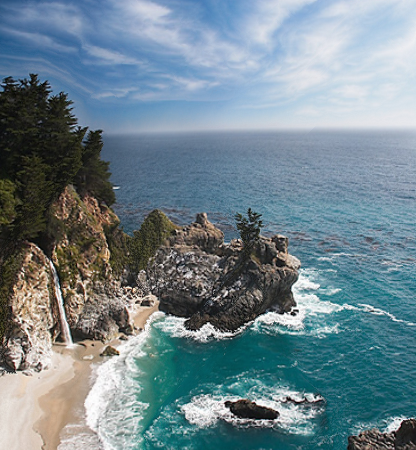
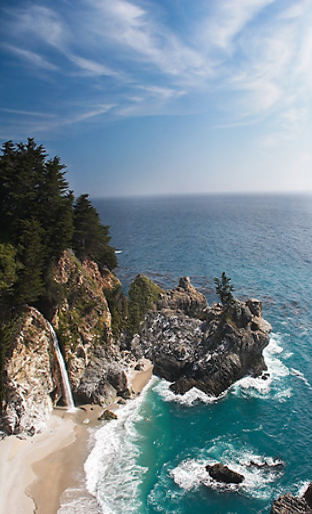
Add forward energy and more images

diff --git a/scaling.cpp b/scaling.cpp
@@ -6,7 +6,6 @@
 
 #include "scaling.h"
 
-typedef int64_t cost_t;
 typedef int8_t mark_t;
 
 enum Direction {
@@ -14,37 +13,49 @@ enum Direction {
     Vertical
 };
 
-std::vector<int> find_seam(const QImage &image, Direction direction, cost_t *dp_space, mark_t *mark_space) {
+std::vector<int> find_seam(const QImage &image, Direction direction, int *gray_map, int *m_space, int *dp_space, mark_t *mark_space) {
     int w = image.width(), h = image.height();
     std::memset(mark_space, 0, w * h * sizeof(mark_t));
-    auto color_distance = [](const QRgb &color_a, const QRgb &color_b) -> cost_t {
-        int r = qRed(color_a); r -= qRed(color_b); if (r < 0) r = -r;
-        int g = qGreen(color_a); g -= qGreen(color_b); if (g < 0) g = -g;
-        int b = qBlue(color_a); b -= qBlue(color_b); if (b < 0) b = -b;
-        return r + g + b;
-    };
+
+    // Gray map
 #pragma omp parallel for
     for (int y = 0; y < h; ++ y) {
         int index = y * w;
         for (int x = 0; x < w; ++ x, ++ index) {
-            dp_space[index] = 0;
-            auto pixel = image.pixel(x, y);
-            if (x > 0) {
-                dp_space[index] += color_distance(pixel, image.pixel(x - 1, y));
-            }
-            if (x + 1 < w) {
-                dp_space[index] += color_distance(pixel, image.pixel(x + 1, y));
-            }
-            if (y > 0) {
-                dp_space[index] += color_distance(pixel, image.pixel(x, y - 1));
-            }
-            if (y + 1 < h) {
-                dp_space[index] += color_distance(pixel, image.pixel(x, y + 1));
-            }
+            gray_map[index] = qGray(image.pixel(x, y));
         }
     }
 
-    auto update = [](cost_t &value, cost_t new_value, mark_t &mark, mark_t new_mark) {
+    // Forward energy
+    auto abs = [](auto x) {
+        return x > 0 ? x : -x;
+    };
+    for (int x = 0; x < w; ++ x) {
+        dp_space[x] = m_space[x] = 0;
+    }
+    for (int y = 1; y < h; ++ y) {
+        int y_index = y * w;
+        int last_y_index = (y - 1) * w;
+#pragma omp parallel for
+        for (int x = 0; x < w; ++ x) {
+            int left = (x - 1 + w) % w, right = (x + 1) % w;
+            int m_U = m_space[last_y_index + x];
+            int m_L = m_space[last_y_index + left];
+            int m_R = m_space[last_y_index + right];
+            int c_U = abs(gray_map[y_index + right] - gray_map[y_index + left]);
+            int c_L = abs(gray_map[last_y_index + x] - gray_map[y_index + left]) + c_U;
+            int c_R = abs(gray_map[last_y_index + x] - gray_map[y_index + right]) + c_U;
+            m_U += c_U, m_L += c_L, m_R += c_R;
+            int m = std::min(m_U, std::min(m_L, m_R));
+            if (m == m_U) dp_space[y_index + x] = c_U;
+            if (m == m_L) dp_space[y_index + x] = c_L;
+            if (m == m_R) dp_space[y_index + x] = c_R;
+            m_space[y_index + x] = m;
+        }
+    }
+
+    // DP
+    auto update = [](int &value, int new_value, mark_t &mark, mark_t new_mark) {
         if (new_value < value) {
             value = new_value;
             mark = new_mark;
@@ -56,7 +67,7 @@ std::vector<int> find_seam(const QImage &image, Direction direction, cost_t *dp_
 #pragma omp parallel for
             for (int y = 0; y < h; ++ y) {
                 int index = y * w + x;
-                cost_t dp = 0x3fffffff, energy = dp_space[index];
+                int dp = 0x3fffffff, energy = dp_space[index];
                 if (y > 0) {
                     update(dp, energy + dp_space[index - w - 1], mark_space[index], -1);
                 }
@@ -68,7 +79,7 @@ std::vector<int> find_seam(const QImage &image, Direction direction, cost_t *dp_
             }
         }
         int y_pos = 0, index = w - 1;
-        cost_t min_value = 0x3fffffff;
+        int min_value = 0x3fffffff;
         for (int y = 0; y < h; ++ y, index += w) {
             if (dp_space[index] < min_value) {
                 y_pos = y;
@@ -87,7 +98,7 @@ std::vector<int> find_seam(const QImage &image, Direction direction, cost_t *dp_
 #pragma omp parallel for
             for (int x = 0; x < w; ++ x) {
                 int index = y * w + x;
-                cost_t dp = 0x3fffffff, energy = dp_space[index];
+                int dp = 0x3fffffff, energy = dp_space[index];
                 if (x > 0) {
                     update(dp, energy + dp_space[index - w - 1], mark_space[index], -1);
                 }
@@ -99,7 +110,7 @@ std::vector<int> find_seam(const QImage &image, Direction direction, cost_t *dp_
             }
         }
         int x_pos = 0, index = (h - 1) * w;
-        cost_t min_value = 0x3fffffff;
+        int min_value = 0x3fffffff;
         for (int x = 0; x < w; ++ x, ++ index) {
             if (dp_space[index] < min_value) {
                 x_pos = x;
@@ -225,14 +236,16 @@ QImage scale(const QImage &image, const QSize &size) {
     QImage scaled = image;
     int max_w = std::max(image.width(), size.width());
     int max_h = std::max(image.height(), size.height());
-    auto *dp_space = static_cast<cost_t*>(std::malloc(max_w * max_h * sizeof(cost_t)));
+    auto *gray_map = static_cast<int*>(std::malloc(max_w * max_h * sizeof(int)));
+    auto *m_space = static_cast<int*>(std::malloc(max_w * max_h * sizeof(int)));
+    auto *dp_space = static_cast<int*>(std::malloc(max_w * max_h * sizeof(int)));
     auto *mark_space = static_cast<mark_t*>(std::malloc(max_w * max_h * sizeof(mark_t)));
     auto *deleted = static_cast<bool*>(std::malloc(max_w * max_h * sizeof(bool)));
 
     // Scale by height
     if (scaled.height() > size.height()) {
         for (int i = 0, length = scaled.height() - size.height(); i < length; ++ i) {
-            auto seam = find_seam(scaled, Horizontal, dp_space, mark_space);
+            auto seam = find_seam(scaled, Horizontal, gray_map, m_space, dp_space, mark_space);
             scaled = delete_seam(scaled, seam, Horizontal);
         }
     } else if (scaled.height() < size.height()) {
@@ -240,7 +253,7 @@ QImage scale(const QImage &image, const QSize &size) {
         int w = scaled.width(), h = scaled.height();
         std::memset(deleted, false, w * h * sizeof(bool));
         for (int i = 0, length = size.height() - scaled.height(); i < length; ++ i) {
-            auto seam = find_seam(removal, Horizontal, dp_space, mark_space);
+            auto seam = find_seam(removal, Horizontal, gray_map, m_space, dp_space, mark_space);
             removal = delete_seam(removal, seam, Horizontal);
             convert_mark_seam(w, h, seam, deleted, Horizontal);
             scaled = add_seam(scaled, seam, Horizontal);
@@ -250,7 +263,7 @@ QImage scale(const QImage &image, const QSize &size) {
     // Scale by width
     if (scaled.width() > size.width()) {
         for (int i = 0, length = scaled.width() - size.width(); i < length; ++ i) {
-            auto seam = find_seam(scaled, Vertical, dp_space, mark_space);
+            auto seam = find_seam(scaled, Vertical, gray_map, m_space, dp_space, mark_space);
             scaled = delete_seam(scaled, seam, Vertical);
         }
     } else if (scaled.width() < size.width()) {
@@ -258,7 +271,7 @@ QImage scale(const QImage &image, const QSize &size) {
         int w = scaled.width(), h = scaled.height();
         std::memset(deleted, false, w * h * sizeof(bool));
         for (int i = 0, length = size.width() - scaled.width(); i < length; ++ i) {
-            auto seam = find_seam(removal, Vertical, dp_space, mark_space);
+            auto seam = find_seam(removal, Vertical, gray_map, m_space, dp_space, mark_space);
             removal = delete_seam(removal, seam, Vertical);
             convert_mark_seam(w, h, seam, deleted, Vertical);
             scaled = add_seam(scaled, seam, Vertical);
@@ -266,6 +279,8 @@ QImage scale(const QImage &image, const QSize &size) {
     }
 
     // Free and return
+    std::free(gray_map);
+    std::free(m_space);
     std::free(dp_space);
     std::free(mark_space);
     std::free(deleted);
